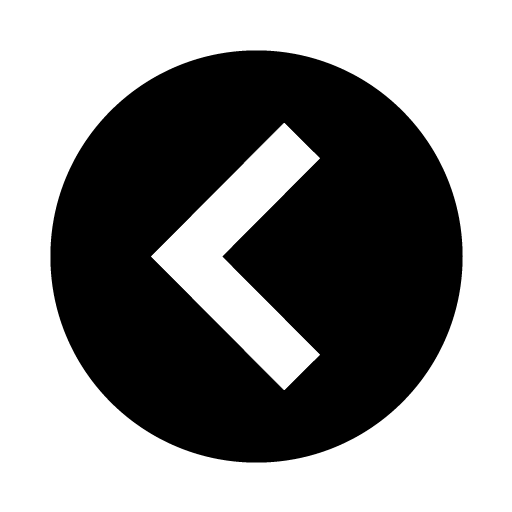
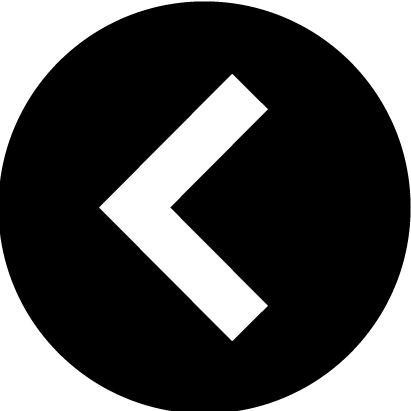
Improve general layout + embed HCI principles

diff --git a/templates/index.html b/templates/index.html
@@ -1,11 +1,14 @@
 {% extends 'base.html' %}
+<head>
+  <title>{% block title %} Main {% endblock %}</title>
+</head>
 
 {% block content %}
 
     <!-- SEARCH RECIPES -->
-    <div class="container">
+    <div class="container" id="search-container">
       <form id="test-submit" action="/search" method="GET">
-          <div class="input-group" style="width: 280px">
+          <div class="input-group">
               <input type="text" name="q" class="form-control" placeholder="Recipe Name, Ingredient or Keyword">
               <span class="input-group-append">
                   <button class="btn btn-outline-secondary" type="submit">
@@ -27,7 +30,7 @@
                       <h3>Maximum Cooking Time:</h3>
                       <div class="slidecontainer">
                         <input type="range" min="0" max="120" value="0" step="5" class="slider" id="cooking-time-range" name="cooking-time-range">
-                        <p><span id="cooking-time-span-value"></span></p>
+                        <p><span id="cooking-time-span-value"></span> mins</p>
                       </div>       
                     </div>
                     <div id="dietary-requirements-container">
@@ -56,19 +59,21 @@
     <div class="container" id="featured-recipes-container">
         <div class="row" style="margin: 0px auto">
             {% if featured_recipes_data | length > 0 %}
-            <h1>Featured Recipes</h1>
-                {% for d in featured_recipes_data %}
-                <div class="col-md card" style="margin: 0px 8px">
-                    <img class="card-img-top" src="{{ d.image_url }}" alt="{{ d.description }}">
-                    <div class="card-body">
-                        <h5 class="card-title">{{ d.title }}</h5>
-                        <p class="card-text">Dietary Requirements: {{ d.dietary_requirements }}</p>
-                        <p class="card-text">Average Rating: {{ d.average_rating }} / 5</p>
-                        <p class="card-text">Number of Ratings: {{ d.number_of_ratings }}</p>
-                        <a href="{{ url_for('view_recipe', id = d._id) }}" class="btn btn-primary">More Info</a>
-                    </div>
-                </div>
-                {% endfor %}
+            <div class="col-md-12">
+              <h1>Featured Recipes</h1>
+            </div>
+              {% for d in featured_recipes_data %}
+              <div class="col-md card" id="featured-recipe-container">
+                  <img class="card-img-top" src="{{ d.image_url }}" alt="{{ d.description }}">
+                  <div class="card-body">
+                      <h5 class="card-title">{{ d.title }}</h5>
+                      <p class="card-text">Dietary Requirements: {{ d.dietary_requirements }}</p>
+                      <p class="card-text">Average Rating: {{ d.average_rating }} / 5</p>
+                      <p class="card-text">Number of Ratings: {{ d.number_of_ratings }}</p>
+                      <a href="{{ url_for('view_recipe', id = d._id) }}" class="btn btn-primary">More Info</a>
+                  </div>
+              </div>
+              {% endfor %}
             {% endif %}
         </div>
     </div>

diff --git a/templates/recipes.html b/templates/recipes.html
@@ -1,27 +1,33 @@
-<!-- THIS IS JUST AN EXAMPLE -->
 {% extends 'base.html' %}
 
 {% block content %}
-    <!-- Should have back button?? -->
-    <h1>{% block title %} Relevant Recipes {% endblock %}</h1>
-    <a href="{{ url_for('index') }}">
-        <img src="../static/back_arrow.png" style="width:64px; height:64px;">
-    </a>
-    <div style="width: 75%; margin: auto">
-        {% for d in data %}
-        <div style="padding: 10px; background-color: #EEE; margin: 20px">
-            <img src="{{ d.image_url }}">
-            <a href="{{ url_for('view_recipe', id = d._id) }}">
-                <h1> {{ d.title }} </h1>
-            </a>
-            <!-- Change size -->
-            <h5>Dietary Requirements: {{ d.dietary_requirements }} </h5>
-            <h5>Total Cooking Time: {{ d.total_time }} </h5>
+
+    <div class="container" id="relevant-recipes-container">
+        <div class="row" id="relevant-recipes-row-div">
+            <div class="col-md-12" id="relevant-recipes-title-div">
+                <a href="{{ url_for('index') }}">
+                    <img src="../static/back_arrow.png" style="width:64px; height:64px">
+                </a>
+                <span id="block-title">{% block title %}Relevant Recipes{% endblock %}</span>
+            </div> 
+            <!-- Check for just size 1 -->
+            {% for d in data %}
+            <div class="col-md-6 card" id="relevant-recipe-container">
+                <img class="card-img-top" src="{{ d.image_url }}">
+                <div class="card-body">
+                    <a href="{{ url_for('view_recipe', id = d._id) }}">
+                        <h5 class="card-title"> {{ d.title }} </h5>
+                    </a>
+                    <p class="card-text">Dietary Requirements: {{ d.dietary_requirements }} </p>
+                    <p>Total Cooking Time: {{ d.total_time }} mins</p>        
+                </div>
+            </div>
+            {% else %}
+            <div class="col-md-12">
+                <h1>None Found!</h1>
+            </div>
+            {% endfor %}
         </div>
-        {% else %}
-        <div>
-            <h1>No recipes found!</h1>
-        </div>
-        {% endfor %}
     </div>
+
 {% endblock %}

diff --git a/templates/base.html b/templates/base.html
@@ -9,7 +9,6 @@
     <!-- Bootstrap CSS and Icons -->
     <link href="https://cdn.jsdelivr.net/npm/bootstrap@5.1.0/dist/css/bootstrap.min.css" rel="stylesheet" integrity="sha384-KyZXEAg3QhqLMpG8r+8fhAXLRk2vvoC2f3B09zVXn8CA5QIVfZOJ3BCsw2P0p/We" crossorigin="anonymous">
     <link rel="stylesheet" href="https://cdn.jsdelivr.net/npm/bootstrap-icons@1.7.2/font/bootstrap-icons.css">
-    <link rel="stylesheet" href="../static/bootstrap-tagsinput.css">
 
 </head>
 
@@ -51,7 +50,6 @@
     <script src="https://code.jquery.com/jquery-3.3.1.slim.min.js" integrity="sha384-q8i/X+965DzO0rT7abK41JStQIAqVgRVzpbzo5smXKp4YfRvH+8abtTE1Pi6jizo" crossorigin="anonymous"></script>
     <script src="https://cdn.jsdelivr.net/npm/@popperjs/core@2.10.2/dist/umd/popper.min.js" integrity="sha384-7+zCNj/IqJ95wo16oMtfsKbZ9ccEh31eOz1HGyDuCQ6wgnyJNSYdrPa03rtR1zdB" crossorigin="anonymous"></script>
     <script src="https://cdn.jsdelivr.net/npm/bootstrap@5.1.3/dist/js/bootstrap.min.js" integrity="sha384-QJHtvGhmr9XOIpI6YVutG+2QOK9T+ZnN4kzFN1RtK3zEFEIsxhlmWl5/YESvpZ13" crossorigin="anonymous"></script>
-    <script src="../static/bootstrap-tagsinput.js"></script>
 
 </body>
 

diff --git a/templates/recipe.html b/templates/recipe.html
@@ -3,14 +3,16 @@
 {% block content %}
 <div class="container">
     <div class="row">
-        <a href="{{ url_for('index') }} ">
-            <img src="../static/back_arrow.png" style="width: 64px; height: 64px;">
-        </a>
+        <div class="col-md-12" id="relevant-recipes-title-div">
+            <a href="{{ url_for('index') }}">
+                <img src="../static/back_arrow.png" style="width:64px; height:64px">
+            </a>
+            <span id="block-title">{% block title %} {{ recipe_data.title }} {% endblock %}</span>
+        </div> 
         <div class="col-md-4">
             <img src="{{ recipe_data.image_url }}" style="width: 100%; height: auto;">
         </div>
         <div class="col-md-8">
-            <h1>Title: {{ recipe_data.title }}</h1>
             <h2>Description: {{ recipe_data.description }}</h2>
             <h2>Dietary Requirements: </h2>
             {% for dietary_requirement in recipe_data.dietary_requirements %}

diff --git a/static/base.css b/static/base.css
@@ -1,4 +1,38 @@
-/** TBC - may refer to old code developed earlier **/
+/** First Mobile Responsive Design approach **/
+#search-container {
+    margin: 32px auto;
+}
+#relevant-recipes-title-div {
+    display: flex;
+    align-items: center;
+    margin: 8px auto;
+}
+#block-title {
+    margin-left: 1rem;
+    font-family: var(--bs-body-font-family);
+    font-size: calc(2.5rem + 1.5vw);
+}
+#relevant-recipes-row-div {
+    justify-content: center;
+}
+#featured-recipe-container {
+    margin: 8px auto;
+}
+#relevant-recipe-container {
+    margin: 8px auto;
+    width: 95%;
+}   
 
-/** Includes Header **/
-
+/** Screens larger than 768px which is default breakpoint **/
+@media screen and (min-width: 768px) {
+    #search-container {
+        width: 50vw;
+    }
+    #featured-recipe-container {
+        margin: 0px 8px;
+    }
+    #relevant-recipe-container {
+        width: 40%;
+        margin: 8px;
+    }    
+}
